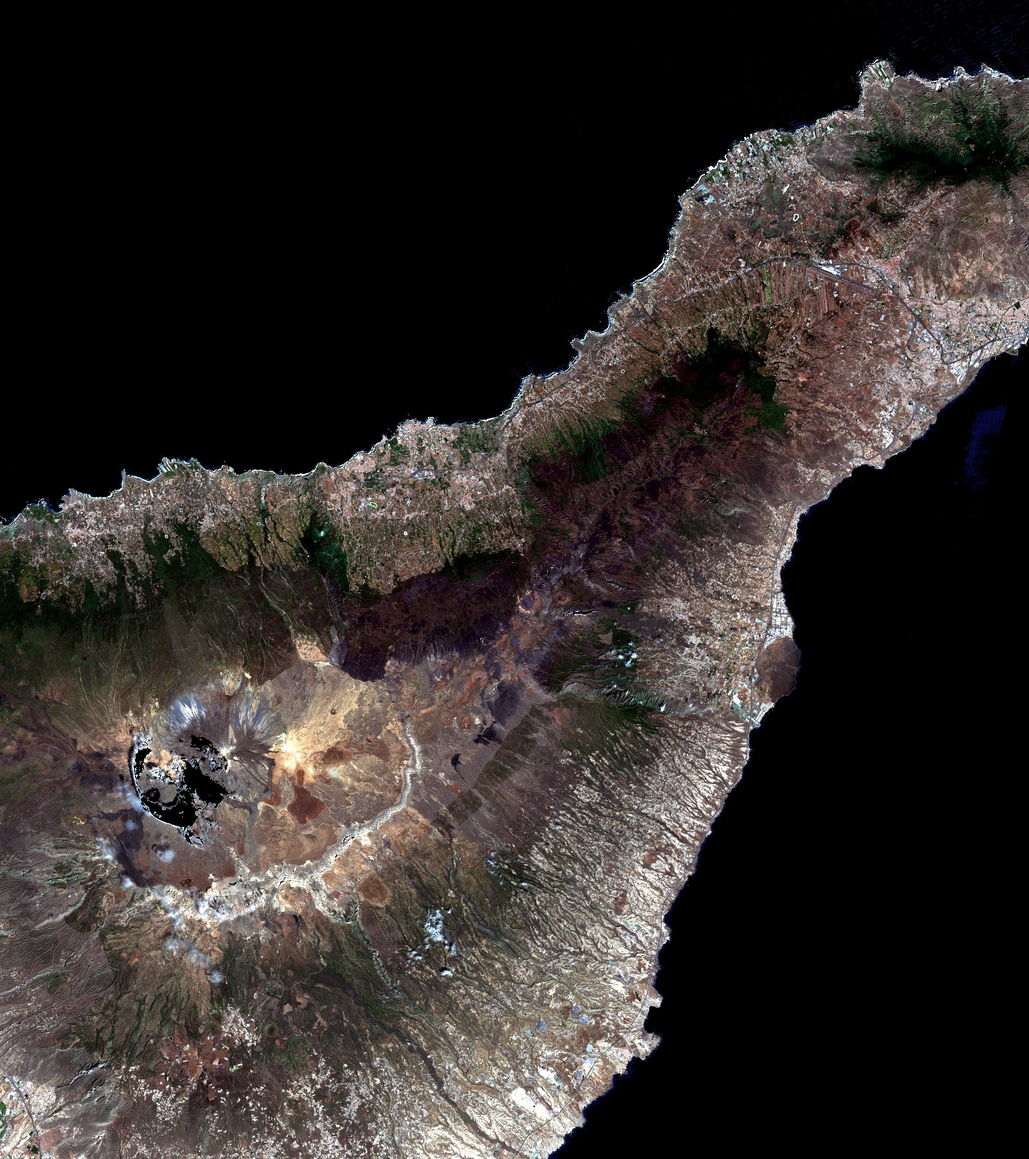
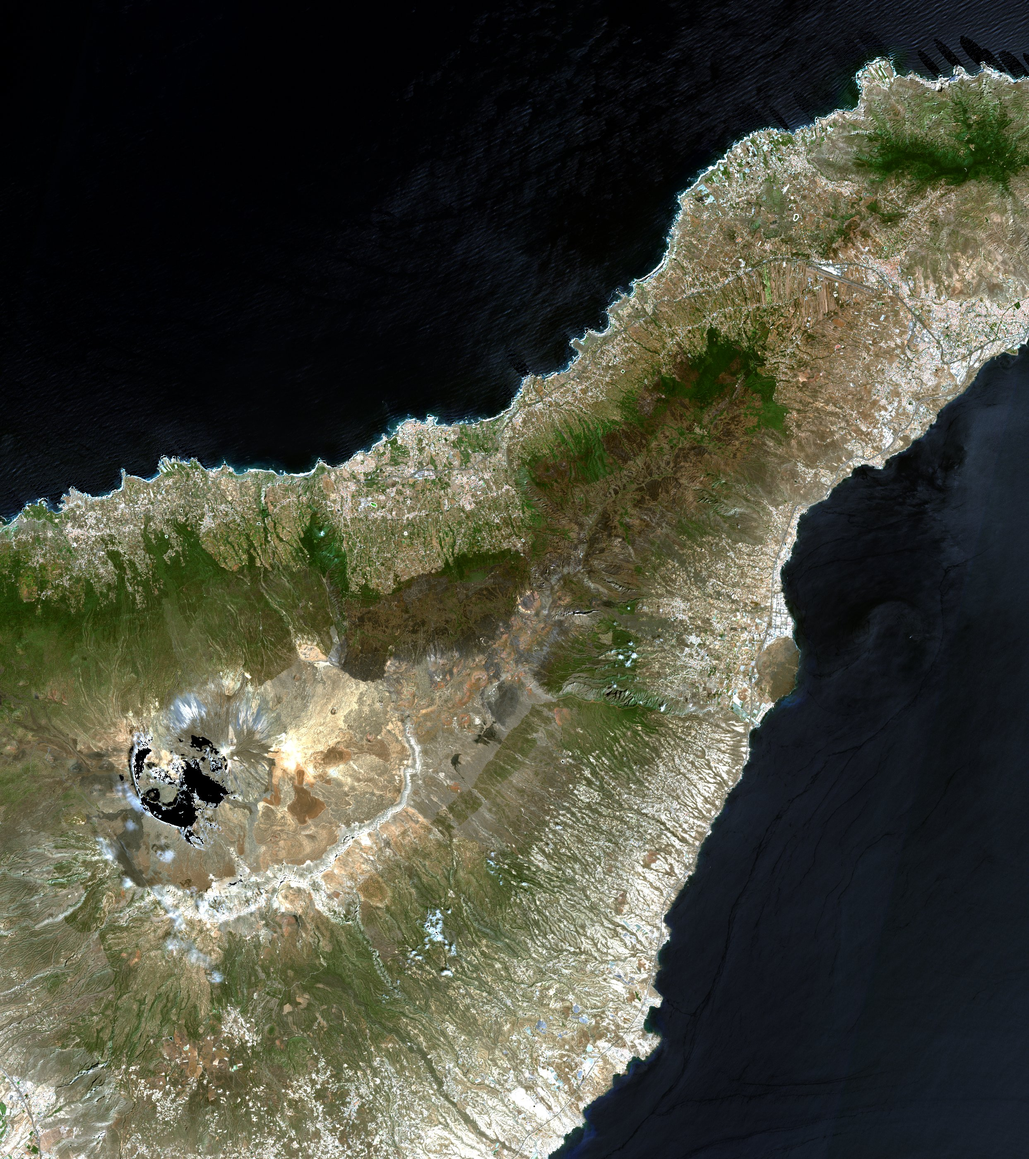
Fix: no tapar el agua en las imagenes antes/despues del comparador (issue #11)
El SCL de Sentinel-2 clasifico "agua" de forma muy distinta entre las dos
escenas (0.6% del cuadro en la de antes, 45.8% en la de despues -
basicamente todo el oceano en una si y en la otra no), asi que la mascara
tapaba de negro casi la mitad de una sola de las dos imagenes del
comparador. Causaba la sensacion de que "despues" se veia mucho mas
oscura - no era el incendio ni el estiramiento de contraste, era esto.

Como esta imagen es solo para verla (no es insumo del calculo de NBR),
ahora se tapan nubes/sombra/cirros pero no agua. Regenerados
data/rgb_before.png, rgb_after.png y los .jpg estaticos de web/public/.

diff --git a/pipeline/export_truecolor.py b/pipeline/export_truecolor.py
@@ -15,16 +15,26 @@ from pystac import Item
 from pystac_client import Client
 
 from config import BBOX, DATE_RANGE_AFTER, DATE_RANGE_BEFORE
-from load_bands import EPSG, SCL_CLOUD_SHADOW_WATER
+from load_bands import EPSG
 from search_scenes import CATALOG_URL, best_scene
 
 RGB_BANDS = ["B04", "B03", "B02"]
 DATA_DIR = Path(__file__).resolve().parent.parent / "data"
 
+# Nubes/sombra/cirros, pero sin la clase 6 (agua): a diferencia de
+# load_bands.SCL_CLOUD_SHADOW_WATER (que sí la tapa, porque el agua rompe el
+# cálculo de NBR), acá se vio que el SCL clasifica "agua" de forma muy
+# inconsistente entre escenas (0.6% del cuadro en la escena de antes, 45.8%
+# en la de después — básicamente todo el océano en una sí y en la otra no),
+# lo que tapaba casi medio comparador de negro en una sola de las dos fotos.
+# Como esto es una imagen visual, no un insumo de NBR, mostrar el agua real
+# (aunque a veces tenga glint/ruido) es preferible a ese parche negro.
+RGB_CLOUD_SHADOW = [3, 8, 9, 10]
+
 
 def load_true_color(item: Item) -> xr.DataArray:
-    """Carga B04/B03/B02 (rojo/verde/azul), recortadas al bbox, con nubes/
-    sombras/agua en NaN (misma máscara SCL que load_bands.load_clean_bands)."""
+    """Carga B04/B03/B02 (rojo/verde/azul), recortadas al bbox, con nubes,
+    sombras y cirros en NaN (el agua se deja ver, ver RGB_CLOUD_SHADOW)."""
     signed_item = planetary_computer.sign(item)
     stack = stackstac.stack(
         [signed_item],
@@ -35,7 +45,7 @@ def load_true_color(item: Item) -> xr.DataArray:
     ).squeeze("time")
 
     scl = stack.sel(band="SCL")
-    is_dirty = scl.isin(SCL_CLOUD_SHADOW_WATER)
+    is_dirty = scl.isin(RGB_CLOUD_SHADOW)
     return stack.sel(band=RGB_BANDS).where(~is_dirty)
 
 
